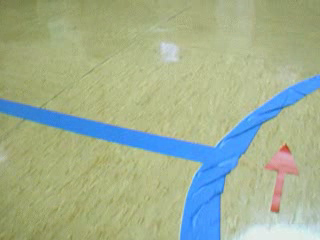
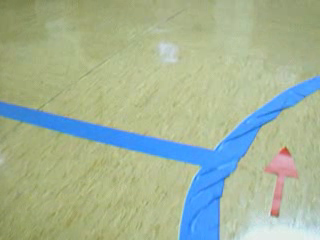
Changed default training img, added better training img with glares

diff --git a/robotica.py b/robotica.py
@@ -18,7 +18,7 @@ import select_pixels as sel
 
 
 video = 'video2017-3.avi'
-trainImg = '1512'
+trainImg = '576'
 trainDir = 'TrainFrames'
 segmDir = 'SegmFrames'
 normDir = 'NormFrames'
@@ -80,11 +80,9 @@ def training(args):
     if not args.multiTrain:
         # Height x Width x channel
         origImg = imread(join(trainDir, 'OriginalImg'+trainImg+'.png'))
-        # origImg = imread(join(trainDir, 'frame.png'))
 
         if not args.gimpImg:
             markImg = imread(join(trainDir, 'TrainingImg'+trainImg+'.png'))
-            # markImg = imread(join(trainDir, 'frame_painted.png'))
         else:
             markImg = imread(join(trainDir, 'GimpTrain'+trainImg+'.png'))
 
